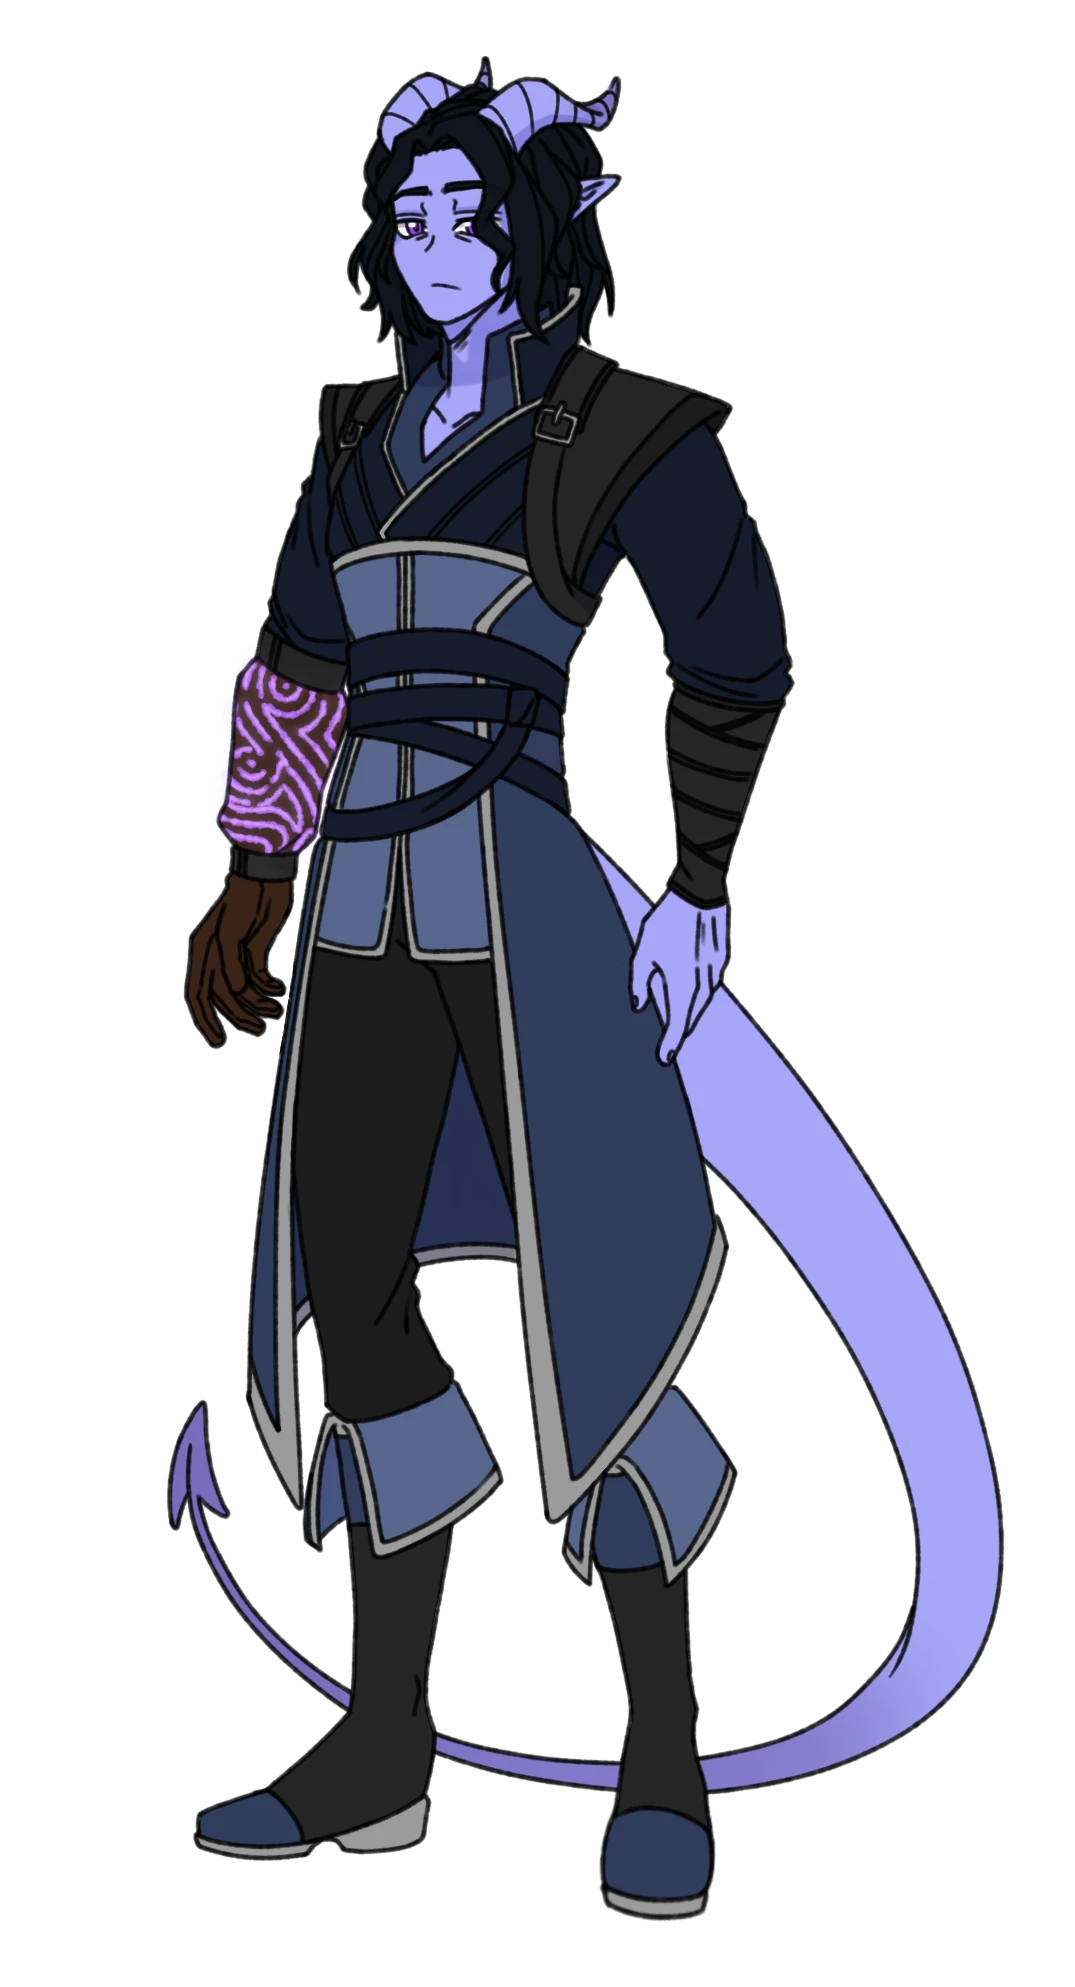
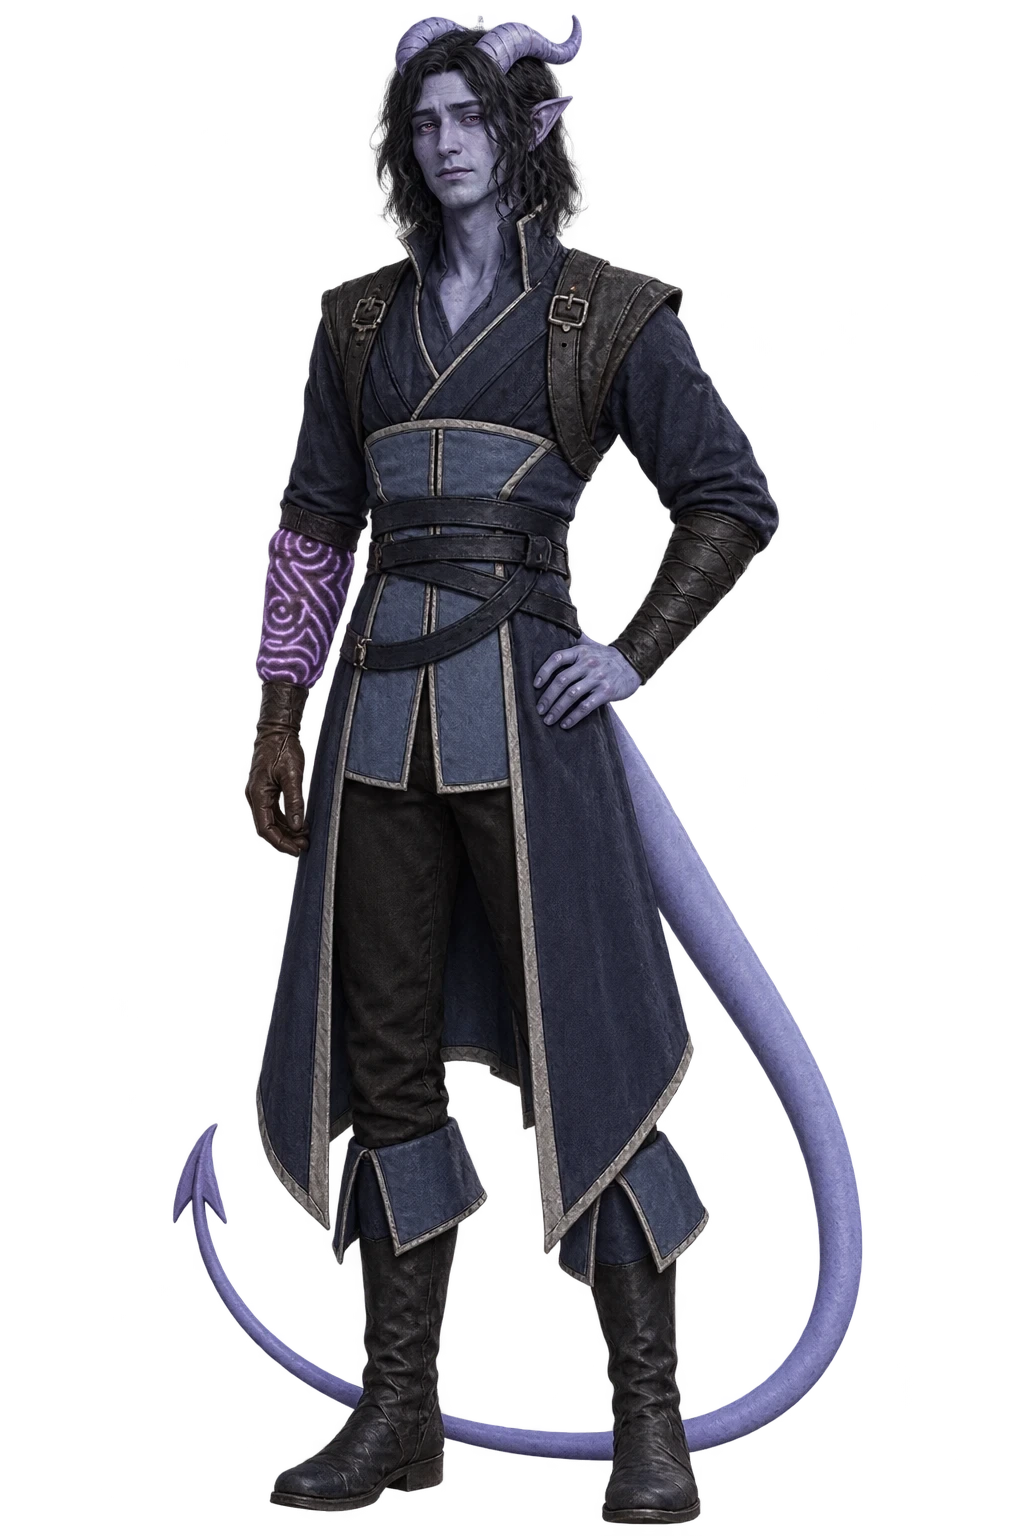
Реалистичные портреты Мавики и Ракару
Изображения/Персонажи/: мавика.webp и ракару.webp — реалистичные
в полный рост вместо рисованных, в одной манере с Эйвелем и Мэносом.
Имена файлов прежние, заметки не менялись. Changelog 0006.

diff --git a/Changelog/0006 — Реалистичные портреты Мавики и Ракару.md b/Changelog/0006 — Реалистичные портреты Мавики и Ракару.md
@@ -1,0 +1,17 @@
+---
+tags: [changelog]
+type: changelog
+date: 2026-10-14
+---
+
+# 0006 — Реалистичные портреты Мавики и Ракару
+
+**Когда:** 2026-10-14
+
+> [!quote] Запрос
+> «Замени портреты в волте тоже» — в кампании все персонажи реалистичные
+
+## Изменено
+
+### Заменённые файлы
+- **`Изображения/Персонажи/мавика.webp`**, **`ракару.webp`** — вместо рисованных портретов (из [[0005 — Портреты партии]]) реалистичные в полный рост, в одной манере с Эйвелем и Мэносом. Внешность, костюм, посох и хвост — как на прежних рисунках. Имена файлов прежние, поэтому [[Мавика]] и [[Ракару]] показывают новые портреты без правок текста

diff --git a/Changelog/Changelog.md b/Changelog/Changelog.md
@@ -11,6 +11,7 @@ type: changelog
 > «Запрос» — что попросили изменить. «Изменено» — что фактически правилось в волте. Старые записи не переписываются: если что-то оказалось неверным, исправление идёт **новой** записью.
 
 ## Записи
+- [[0006 — Реалистичные портреты Мавики и Ракару]] — 2026-10-14
 - [[0005 — Портреты партии]] — 2026-10-07
 - [[0004 — Заметки о персонажах партии]] — 2026-10-05
 - [[0003 — Имена дроу и тифлинга]] — 2026-10-05
